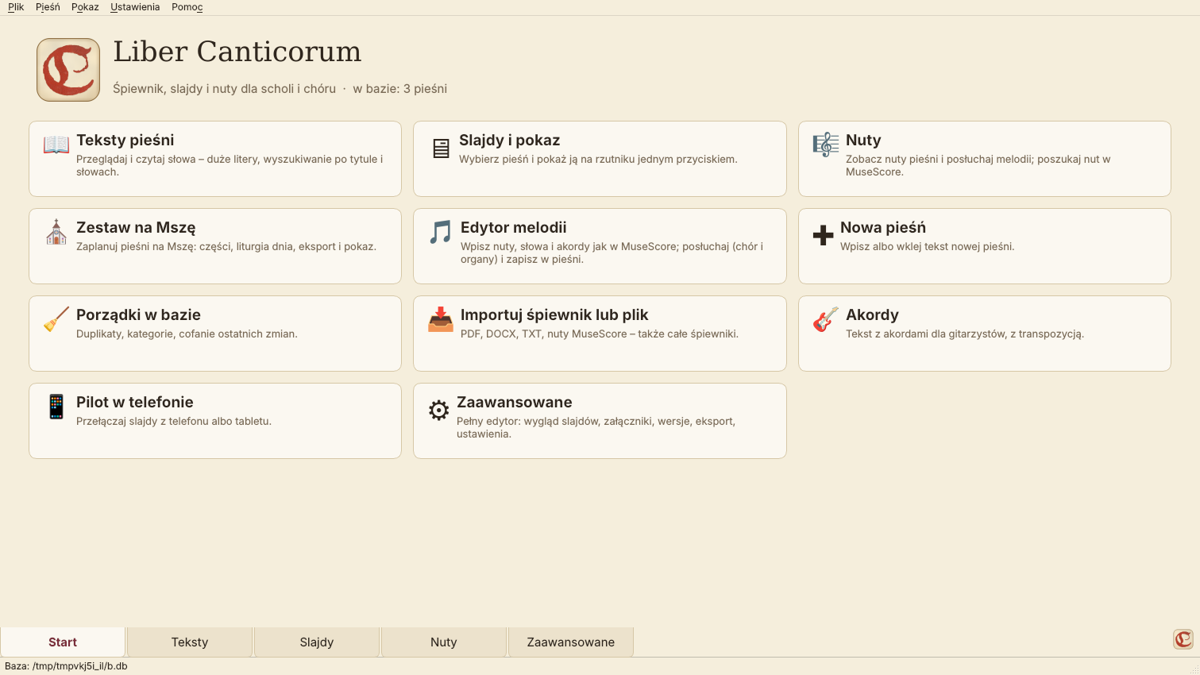
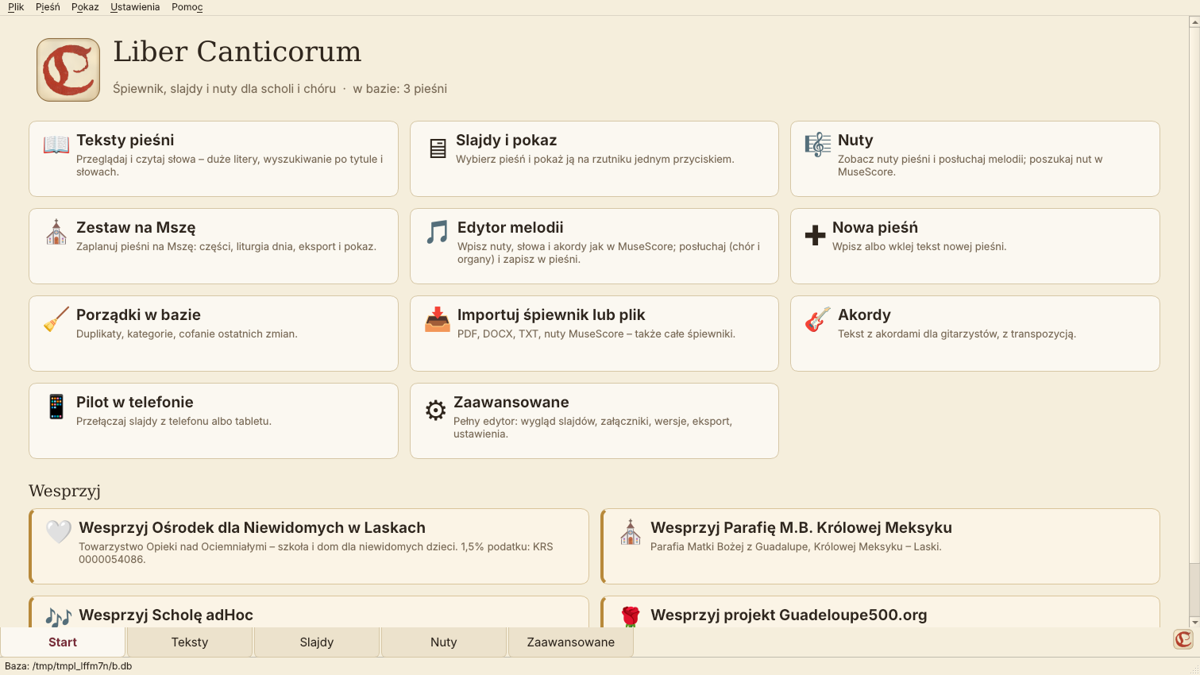
0.20.0: kafle „Wesprzyj” na ekranie Start
- Ośrodek dla Niewidomych w Laskach, Parafia M.B. Królowej Meksyku, Schola adHoc, Guadeloupe500.org
- adresy w wsparcie.json (do zmiany bez programowania); ekran Start przewijany

Claude-Session: https://claude.ai/code/session_01Wt9ypXHAjTrJsv1Ry26Vbk

diff --git a/program/liber_canticorum.py b/program/liber_canticorum.py
@@ -57,9 +57,35 @@ from PySide6.QtWidgets import (QApplication, QCheckBox, QColorDialog, QComboBox,
 
 APP_NAME = "Liber Canticorum"
 APP_MOTTO = "wolny śpiewnik dla wspólnot"
-VERSION = "0.19.3"
+VERSION = "0.20.0"
 APP_DIR = os.path.dirname(os.path.abspath(__file__))
 BG_DIR = os.path.join(APP_DIR, "tla")
+
+# kafle „Wesprzyj” na ekranie Start: (ikona, tytuł, opis, adres). Adresy można zmienić w pliku wsparcie.json obok programu.
+SUPPORT = [
+    ("🤍", "Wesprzyj Ośrodek dla Niewidomych w Laskach",
+     "Towarzystwo Opieki nad Ociemniałymi – szkoła i dom dla niewidomych dzieci. 1,5% podatku: KRS 0000054086.",
+     "https://www.laski.edu.pl/"),
+    ("⛪", "Wesprzyj Parafię M.B. Królowej Meksyku",
+     "Parafia Matki Bożej z Guadalupe, Królowej Meksyku – Laski.", ""),
+    ("🎶", "Wesprzyj Scholę adHoc",
+     "Zaśpiewaj z nami w I niedzielę miesiąca w samo południe na Mszach o bogactwo łaski dla rodzin "
+     "(uwaga – to nie jest prosperity gospel :-) ). Modlimy się także za Twoją rodzinę ;-).",
+     "https://dowiaryprzezliturgie.pl/adhoc/"),
+    ("🌹", "Wesprzyj projekt Guadeloupe500.org",
+     "Nowa muzyka na 500-lecie objawień Matki Bożej na wzgórzu Tepeyac w Meksyku (w przygotowaniu).",
+     "https://guadeloupe500.org/"),
+]
+
+
+def support_url(title, default):
+    """Adres z pliku wsparcie.json (obok programu), jeśli jest – inaczej domyślny."""
+    try:
+        with open(os.path.join(APP_DIR, "wsparcie.json"), encoding="utf-8") as f:
+            return json.load(f).get(title, default)
+    except (OSError, ValueError):
+        return default
+
 
 DEFAULT_CATEGORIES = [
     "Adwent", "Boże Narodzenie", "Wielki Post", "Triduum Paschalne", "Wielkanoc", "Zesłanie Ducha Świętego",
@@ -3084,7 +3110,8 @@ class MainWindow(QMainWindow):
             ("⚙", "Zaawansowane", "Pełny edytor: wygląd slajdów, załączniki, wersje, eksport, ustawienia.",
              lambda: self.views.setCurrentIndex(self.V_ADV)),
         ]
-        self.home = mw.HomePage(tiles)
+        self.home = mw.HomePage(tiles, support=[(ic, t, d, (lambda u=u, t=t: self._open_support(t, u)))
+                                                for ic, t, d, u in SUPPORT])
         self.v_texts = mw.TextsPage(self.db, self.set_entries, self._go_slides, self._go_edit)
         self.v_slides = mw.SlidesPage(self.db, self.set_entries, build_song_deck, SlideView, slide_pixmap,
                                       lambda deck, i: self._open_present(deck, i, True), self.present_setlist)
@@ -3810,6 +3837,13 @@ class MainWindow(QMainWindow):
         elif action == 'categories':
             self.category_manager()
         self._refresh_pickers()
+
+    def _open_support(self, title, url):
+        url = support_url(title, url)
+        if url:
+            QDesktopServices.openUrl(QUrl(url))
+        else:
+            QMessageBox.information(self, title, "Strona jest w przygotowaniu – zajrzyj wkrótce.")
 
     def tidy_dialog(self):
         """Kafel „Porządki w bazie”: duże przyciski do najczęstszych porządków."""

diff --git a/program/modul_widoki.py b/program/modul_widoki.py
@@ -51,6 +51,9 @@ def apply_theme(app, on=True):
         QTabWidget#views::pane {{ border: none; }}
         QFrame#tile {{ background: {PAPER}; border: 1px solid {LINE}; border-radius: 10px; }}
         QFrame#tile:hover {{ border: 1px solid {ACCENT}; background: #FFFDF7; }}
+        QFrame#tile[support="true"] {{ background: #FBF4E6; border: 1px solid #D9C49A; border-left: 4px solid #B8893A; }}
+        QFrame#tile[support="true"]:hover {{ border: 1px solid {ACCENT}; border-left: 4px solid {ACCENT}; }}
+        QLabel#supportHead {{ font-size: 15pt; color: {INK}; }}
         QLabel#tileTitle {{ font-size: 14pt; font-weight: bold; color: {INK}; }}
         QLabel#tileText {{ font-size: 10pt; color: {MUTED}; }}
         QLabel#tileIcon {{ font-size: 26pt; }}
@@ -165,9 +168,17 @@ class Tile(QFrame):
 class HomePage(QWidget):
     """Start: kafle najważniejszych funkcji."""
 
-    def __init__(self, tiles, info="", parent=None):
+    def __init__(self, tiles, info="", parent=None, support=None):
         super().__init__(parent)
-        outer = QVBoxLayout(self)
+        page = QVBoxLayout(self)
+        page.setContentsMargins(0, 0, 0, 0)
+        sc = QScrollArea()
+        sc.setWidgetResizable(True)
+        sc.setFrameShape(QFrame.NoFrame)
+        inner = QWidget()
+        sc.setWidget(inner)
+        page.addWidget(sc)
+        outer = QVBoxLayout(inner)
         outer.setContentsMargins(36, 24, 36, 20)
         head = QHBoxLayout()
         head.addWidget(Monogram(84))
@@ -189,6 +200,22 @@ class HomePage(QWidget):
             tile.clicked.connect(fn)
             grid.addWidget(tile, k // 3, k % 3)
         outer.addLayout(grid)
+        if support:
+            outer.addSpacing(22)
+            h = QLabel("Wesprzyj")
+            h.setObjectName("supportHead")
+            h.setFont(serif_font(22))
+            outer.addWidget(h)
+            outer.addSpacing(4)
+            sg = QGridLayout()
+            sg.setSpacing(14)
+            for k, (icon, title, text, fn) in enumerate(support):
+                tile = Tile(icon, title, text)
+                tile.setProperty("support", True)
+                tile.setMaximumHeight(190)
+                tile.clicked.connect(fn)
+                sg.addWidget(tile, k // 2, k % 2)
+            outer.addLayout(sg)
         outer.addStretch(1)
 
     def set_info(self, text):

diff --git a/README.md b/README.md
@@ -1,6 +1,6 @@
 <p align="center"><img src="program/ikony/liber_canticorum_128.png" width="128" alt="Liber Canticorum"></p>
 
-# Liber Canticorum 0.19.3
+# Liber Canticorum 0.20.0
 *wolny śpiewnik dla wspólnot*
 
 *Liber canticorum* to po łacinie „księga pieśni”. *Liber* znaczy „księga”, a zarazem przywodzi na myśl
@@ -12,7 +12,7 @@ z nutami, odtwarzaczem głosów, pilotem w telefonie i śpiewnikiem offline. To 
 Działa na Windows, macOS i Linux. Startuje z pustą bazą: teksty, nuty i nagrania wpisujesz i dodajesz sam.
 
 **Numeracja wersji.** Od wersji 0.9.7 program ma numerację 0.x.y (wcześniejsze wydania nosiły numery 7.x–9.7).
-0.x oznacza, że program wciąż szybko się rozwija; kolejne wydania to 0.19.x, 0.20.0 itd.
+0.x oznacza, że program wciąż szybko się rozwija; kolejne wydania to 0.20.x, 0.21.0 itd.
 
 ## Jak wygląda
 
@@ -25,6 +25,17 @@ Działa na Windows, macOS i Linux. Startuje z pustą bazą: teksty, nuty i nagra
 | ![Zaawansowane – pełny edytor](program/zrzuty/widok_zaawansowane.png) | ![Edytor melodii z czcionką nutową Leland](program/zrzuty/edytor_melodii.png) |
 
 *Na zrzutach są pieśni z domeny publicznej wpisane do pustej bazy. Program nie zawiera żadnych tekstów ani nut.*
+
+## Wesprzyj
+
+Program jest darmowy. Jeśli Ci się przydaje, wesprzyj – kafle u dołu ekranu Start otwierają strony:
+- **Ośrodek dla Niewidomych w Laskach** – Towarzystwo Opieki nad Ociemniałymi (1,5% podatku: KRS 0000054086),
+- **Parafia M.B. Królowej Meksyku** (Matki Bożej z Guadalupe, Laski),
+- **Schola adHoc** – zaśpiewaj z nami w I niedzielę miesiąca w samo południe na Mszach o bogactwo łaski dla rodzin
+  (uwaga – to nie jest prosperity gospel :-) ). Modlimy się także za Twoją rodzinę ;-),
+- **Guadeloupe500.org** – nowa muzyka na 500-lecie objawień Matki Bożej na wzgórzu Tepeyac w Meksyku (w przygotowaniu).
+
+Adresy stron są w pliku `wsparcie.json` (obok programu) i można je tam zmienić.
 
 ## Układ okna: zakładki u dołu
 
@@ -148,7 +159,7 @@ Pole **„Słowa na dole”** włącza i wyłącza duże słowa bieżącej frazy
 Po rozpakowaniu w folderze są tylko programy do uruchamiania i ten folder `program`:
 
 ```
-LiberCanticorum_0.19.3/
+LiberCanticorum_0.20.0/
 ├── Liber Canticorum.bat       ← Windows (po 1. starcie obok pojawi się skrót z ikoną)
 ├── Liber Canticorum.desktop   ← Linux (ikona pojawi się po 1. starcie)
 ├── Liber Canticorum.command   ← macOS
@@ -217,6 +228,7 @@ python3 -m venv .venv
 | `modul_pdf_tekst.py` | śpiewniki tekstowe PDF (tytuły po kroju pisma, akordy) |
 | `modul_pdf_obrazy.py` | śpiewniki PDF z nutami jako obrazkami (msze, części stałe) |
 | `modul_omr.py` | rozpoznawanie nut ze skanu programem Audiveris (MusicXML) |
+| `wsparcie.json` | adresy stron kafli „Wesprzyj” na ekranie Start |
 | `modul_instrumenty.py` | klawiatura w odtwarzaczu, chwyty gitarowe na gryfie |
 | `modul_edytor.py` | edytor melodii: nuty, słowa, akordy; zapis MusicXML (Sopran – chór, Organy) i MIDI |
 | `czcionki/` | czcionki z MuseScore: Leland (znaki nutowe, SMuFL) i Edwin (tekst), licencja SIL OFL 1.1 |

diff --git a/program/README.md b/program/README.md
@@ -1,6 +1,6 @@
 <p align="center"><img src="ikony/liber_canticorum_128.png" width="128" alt="Liber Canticorum"></p>
 
-# Liber Canticorum 0.19.3
+# Liber Canticorum 0.20.0
 *wolny śpiewnik dla wspólnot*
 
 *Liber canticorum* to po łacinie „księga pieśni”. *Liber* znaczy „księga”, a zarazem przywodzi na myśl
@@ -12,7 +12,7 @@ z nutami, odtwarzaczem głosów, pilotem w telefonie i śpiewnikiem offline. To 
 Działa na Windows, macOS i Linux. Startuje z pustą bazą: teksty, nuty i nagrania wpisujesz i dodajesz sam.
 
 **Numeracja wersji.** Od wersji 0.9.7 program ma numerację 0.x.y (wcześniejsze wydania nosiły numery 7.x–9.7).
-0.x oznacza, że program wciąż szybko się rozwija; kolejne wydania to 0.19.x, 0.20.0 itd.
+0.x oznacza, że program wciąż szybko się rozwija; kolejne wydania to 0.20.x, 0.21.0 itd.
 
 ## Jak wygląda
 
@@ -25,6 +25,17 @@ Działa na Windows, macOS i Linux. Startuje z pustą bazą: teksty, nuty i nagra
 | ![Zaawansowane – pełny edytor](zrzuty/widok_zaawansowane.png) | ![Edytor melodii z czcionką nutową Leland](zrzuty/edytor_melodii.png) |
 
 *Na zrzutach są pieśni z domeny publicznej wpisane do pustej bazy. Program nie zawiera żadnych tekstów ani nut.*
+
+## Wesprzyj
+
+Program jest darmowy. Jeśli Ci się przydaje, wesprzyj – kafle u dołu ekranu Start otwierają strony:
+- **Ośrodek dla Niewidomych w Laskach** – Towarzystwo Opieki nad Ociemniałymi (1,5% podatku: KRS 0000054086),
+- **Parafia M.B. Królowej Meksyku** (Matki Bożej z Guadalupe, Laski),
+- **Schola adHoc** – zaśpiewaj z nami w I niedzielę miesiąca w samo południe na Mszach o bogactwo łaski dla rodzin
+  (uwaga – to nie jest prosperity gospel :-) ). Modlimy się także za Twoją rodzinę ;-),
+- **Guadeloupe500.org** – nowa muzyka na 500-lecie objawień Matki Bożej na wzgórzu Tepeyac w Meksyku (w przygotowaniu).
+
+Adresy stron są w pliku `wsparcie.json` (obok programu) i można je tam zmienić.
 
 ## Układ okna: zakładki u dołu
 
@@ -148,7 +159,7 @@ Pole **„Słowa na dole”** włącza i wyłącza duże słowa bieżącej frazy
 Po rozpakowaniu w folderze są tylko programy do uruchamiania i ten folder `program`:
 
 ```
-LiberCanticorum_0.19.3/
+LiberCanticorum_0.20.0/
 ├── Liber Canticorum.bat       ← Windows (po 1. starcie obok pojawi się skrót z ikoną)
 ├── Liber Canticorum.desktop   ← Linux (ikona pojawi się po 1. starcie)
 ├── Liber Canticorum.command   ← macOS
@@ -217,6 +228,7 @@ python3 -m venv .venv
 | `modul_pdf_tekst.py` | śpiewniki tekstowe PDF (tytuły po kroju pisma, akordy) |
 | `modul_pdf_obrazy.py` | śpiewniki PDF z nutami jako obrazkami (msze, części stałe) |
 | `modul_omr.py` | rozpoznawanie nut ze skanu programem Audiveris (MusicXML) |
+| `wsparcie.json` | adresy stron kafli „Wesprzyj” na ekranie Start |
 | `modul_instrumenty.py` | klawiatura w odtwarzaczu, chwyty gitarowe na gryfie |
 | `modul_edytor.py` | edytor melodii: nuty, słowa, akordy; zapis MusicXML (Sopran – chór, Organy) i MIDI |
 | `czcionki/` | czcionki z MuseScore: Leland (znaki nutowe, SMuFL) i Edwin (tekst), licencja SIL OFL 1.1 |
